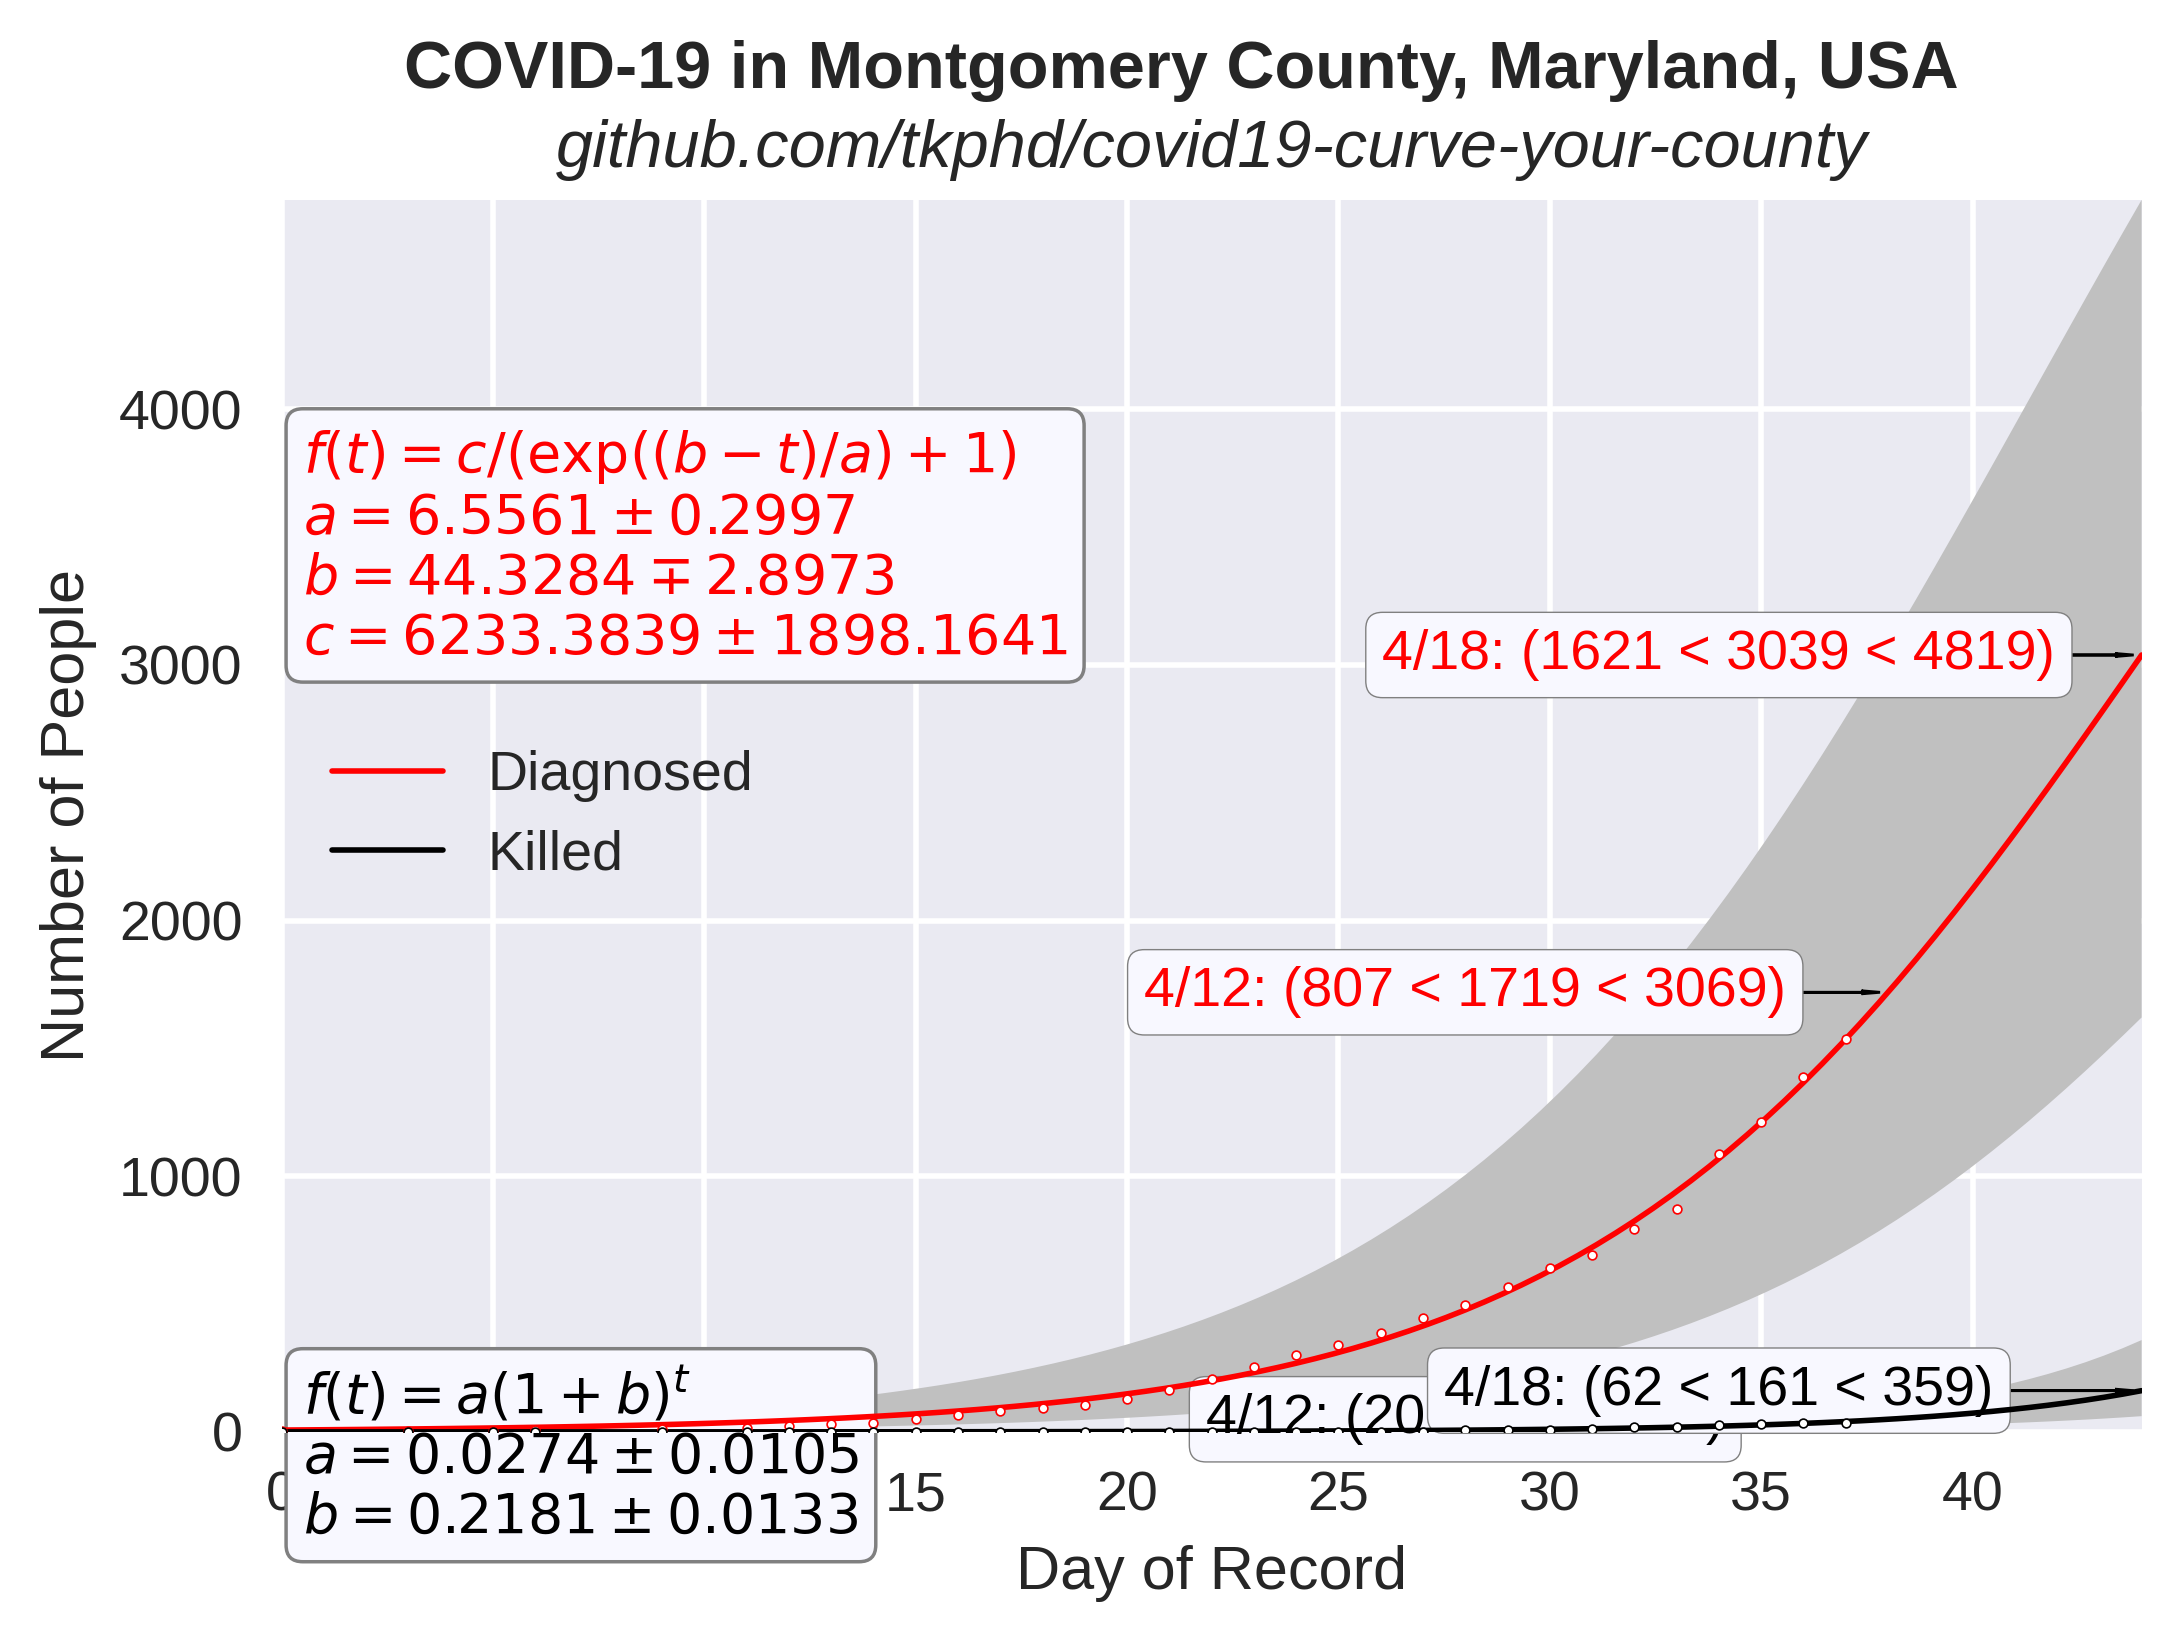
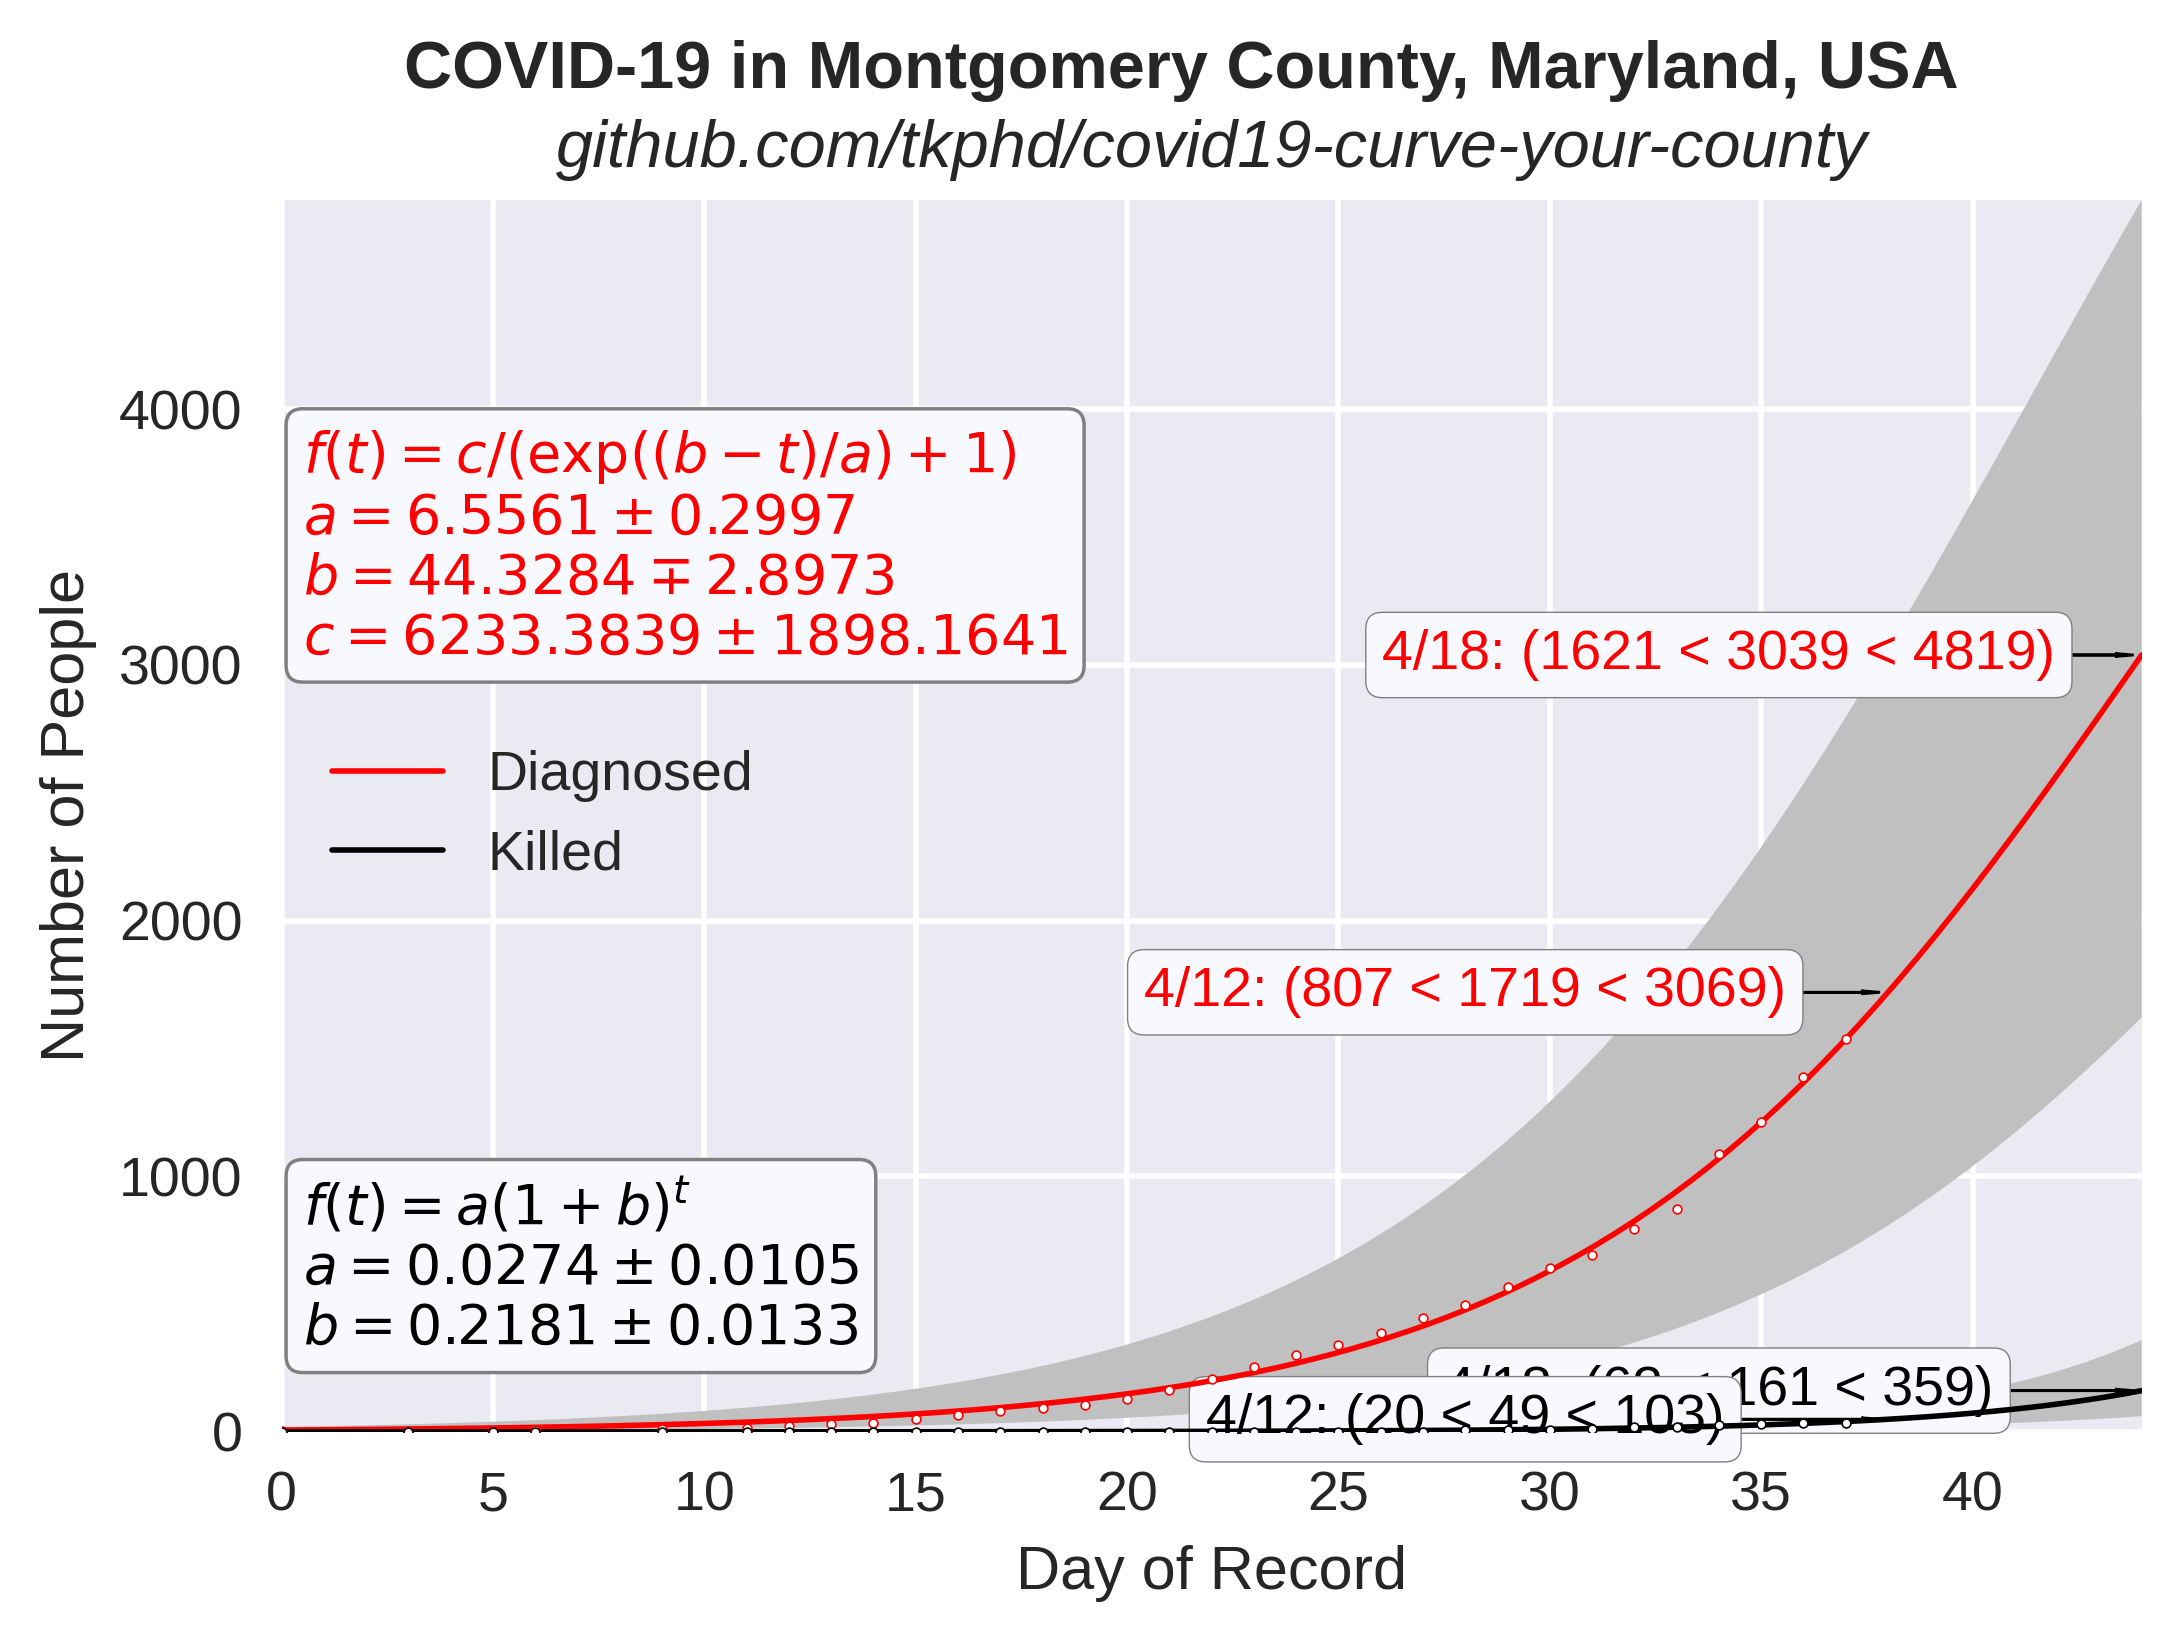
prioritize tomorrow over next week

Changed region(s): [[0.1247, 0.7144, 0.4053, 0.9629], [0.6547, 0.8386, 0.8106, 0.8697]]

diff --git a/exponential.py b/exponential.py
@@ -162,7 +162,7 @@ for key in columns:
     lower = f(t_hat, *lwr_p)
 
     # Overlay model on plot
-    plt.text(0.5, 0.5 * (upper[1] + y_hat[1]),
+    plt.text(0.5, max(1000, 0.5 * (upper[1] + y_hat[1])),
              equations[models[key]].format(*p, *perr),
              color=colors[key],
              va="top",
@@ -193,7 +193,7 @@ for key in columns:
         color=colors[key],
         va="center",
         ha="center",
-        zorder=4,
+        zorder=3,
         bbox=dict(boxstyle="round", ec="gray", fc="ghostwhite", linewidth=dx)
     )
 
@@ -212,8 +212,9 @@ for key in columns:
         overhang=dx,
         length_includes_head=True,
         linewidth=0.5,
-        zorder=2,
+        zorder=3,
     )
+
     plt.arrow(
         t_hat[1] - dt,
         y_hat[1],
